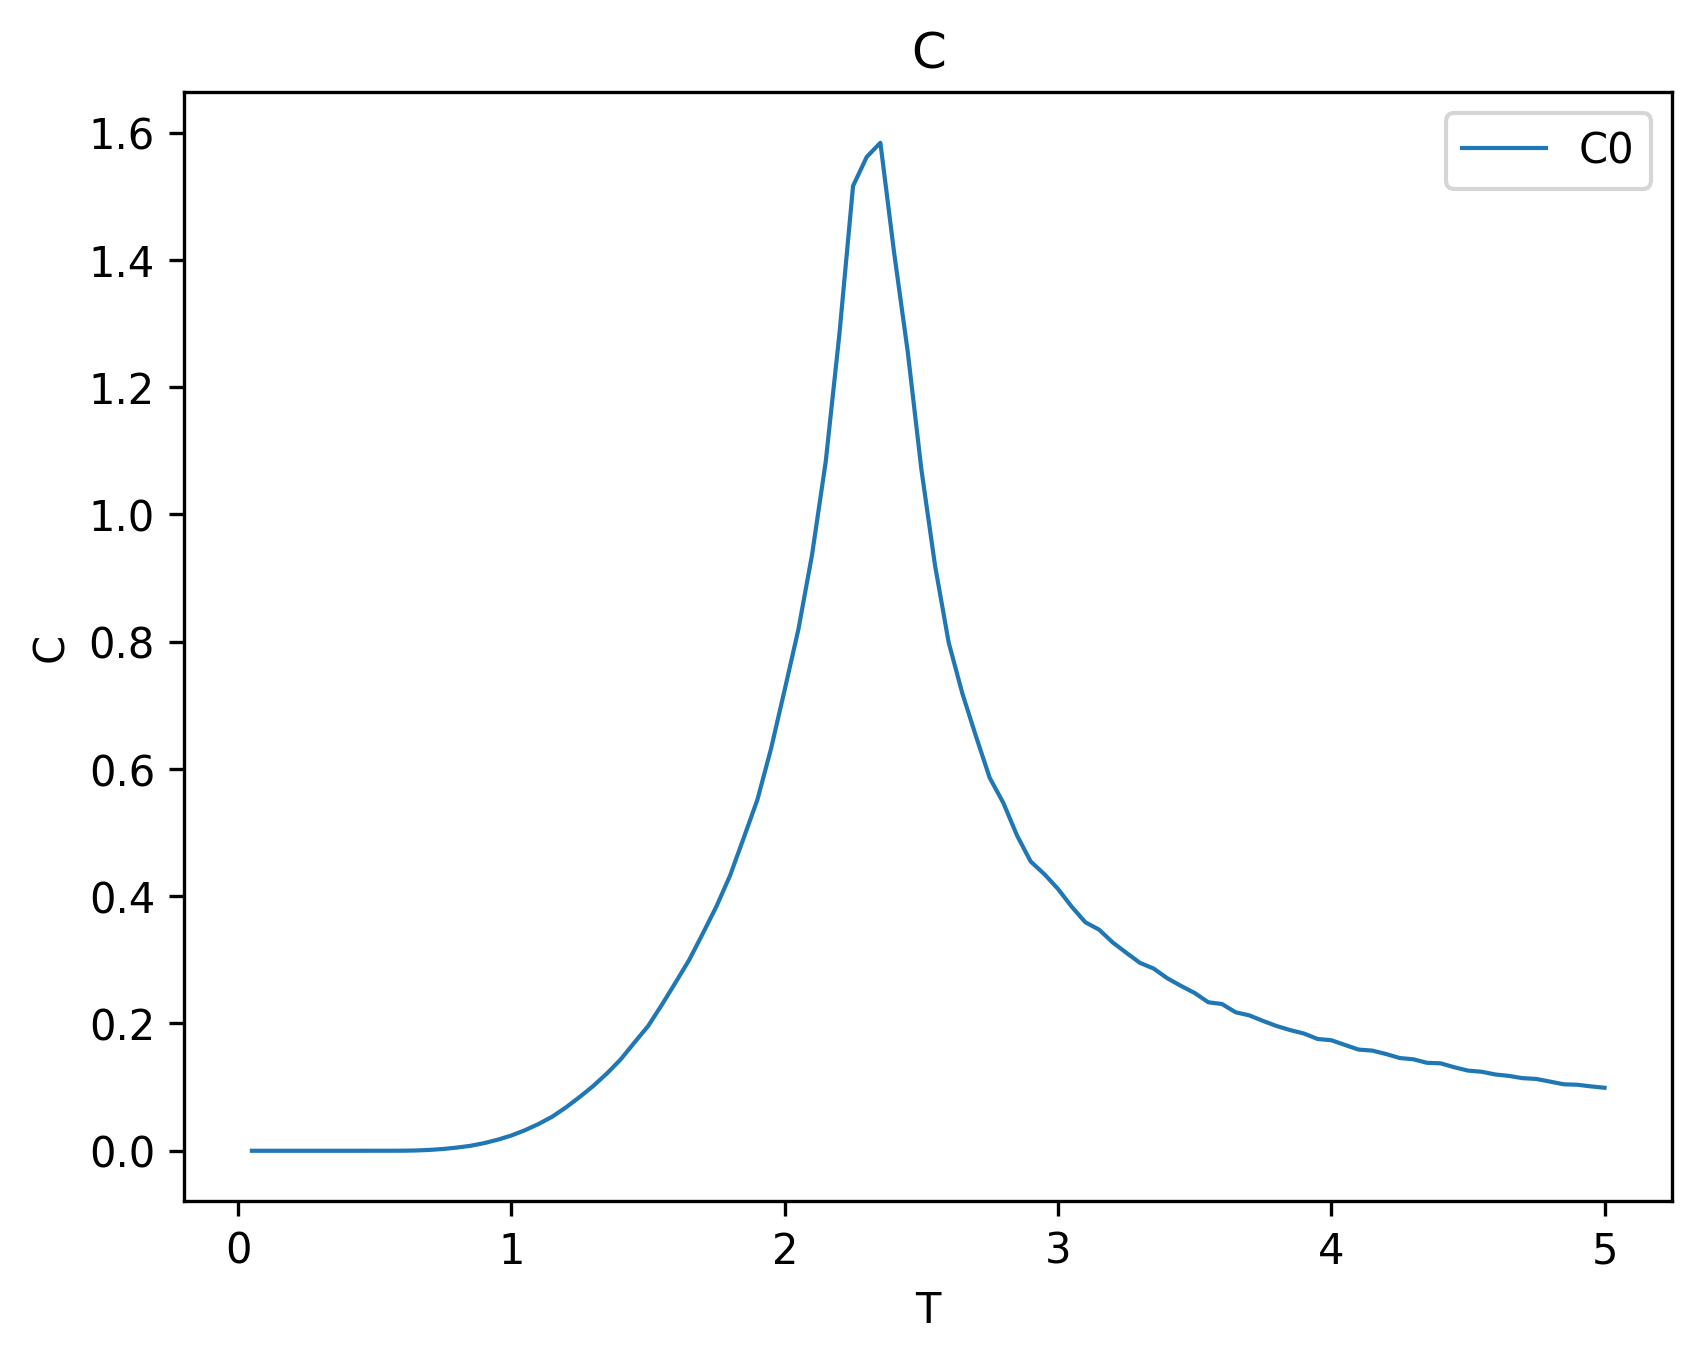
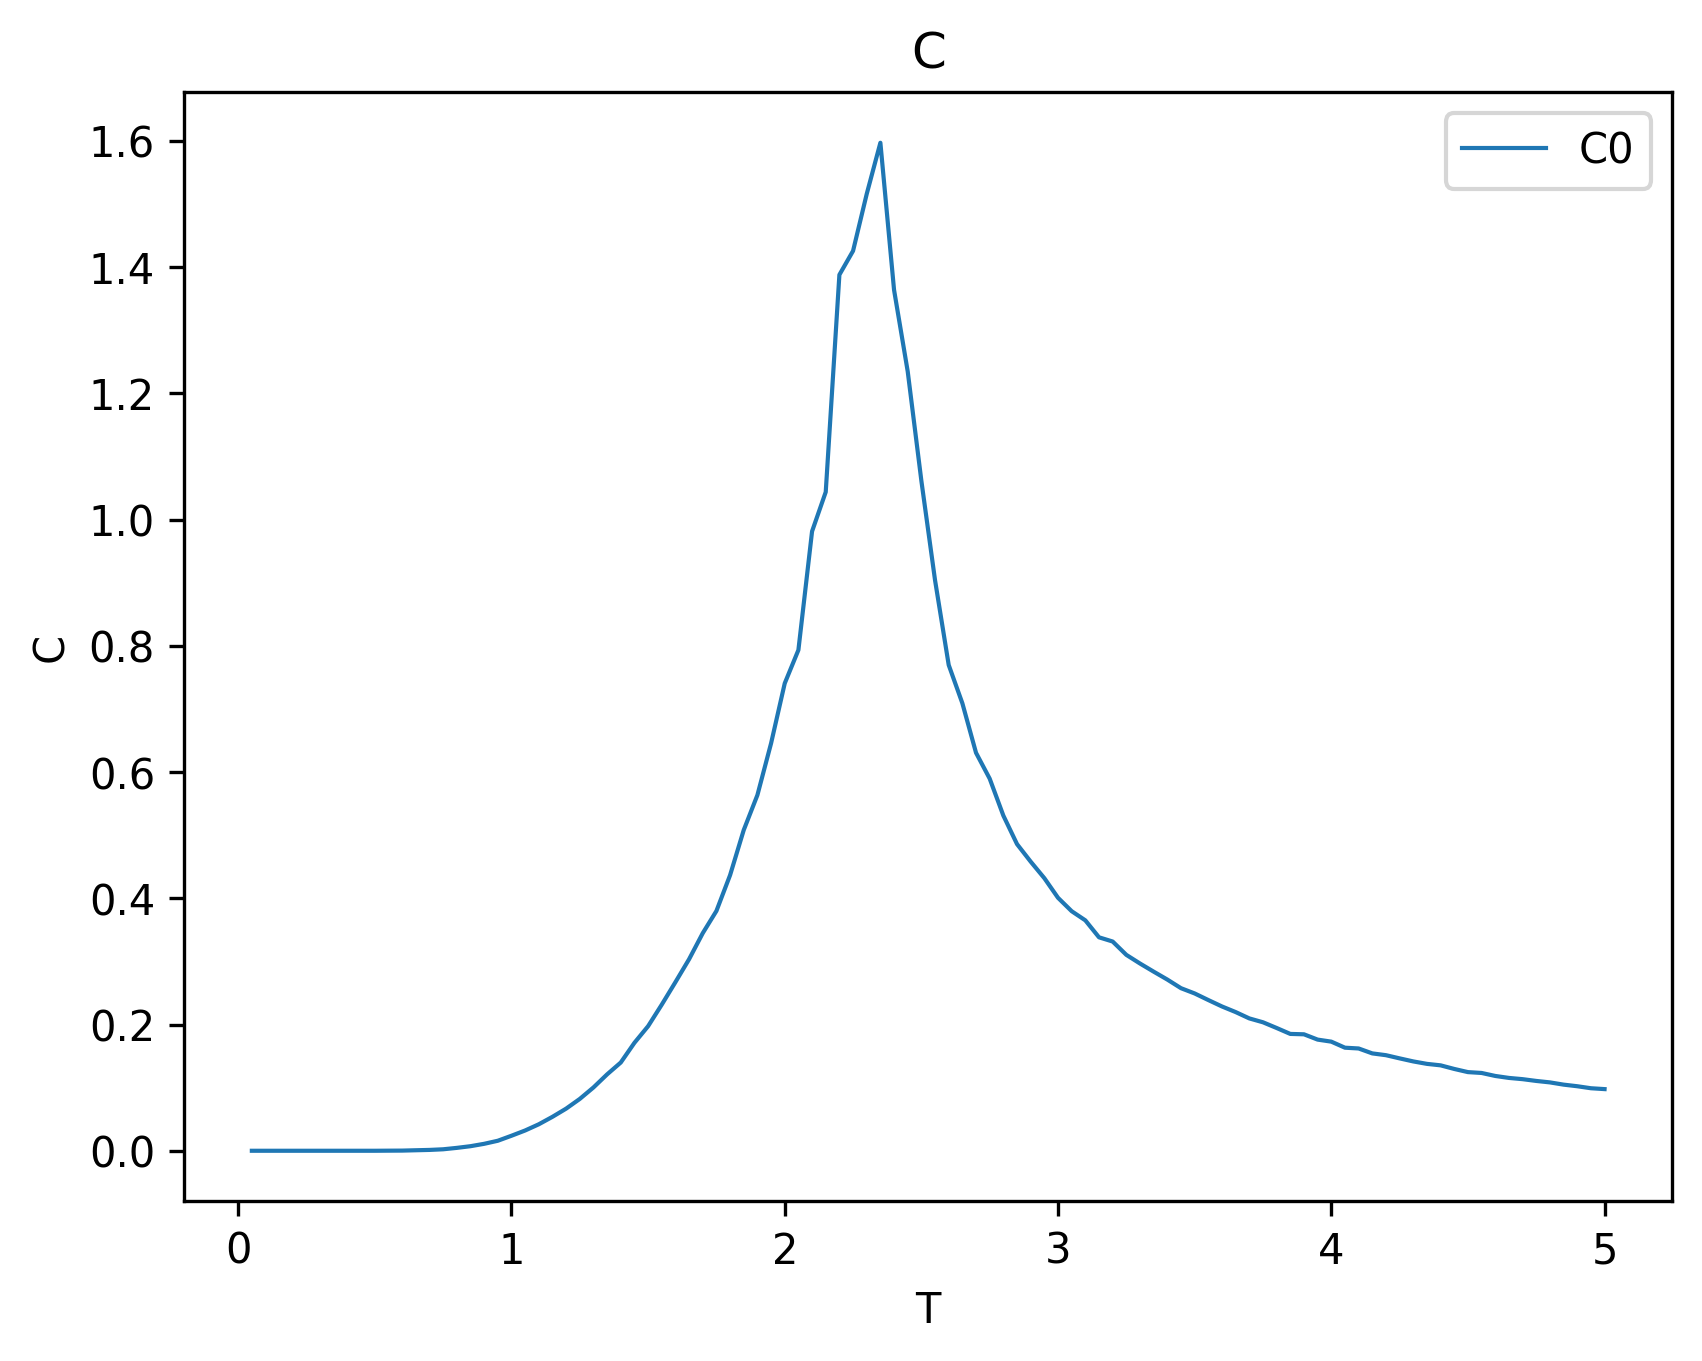
baseSeed fix

diff --git a/ising/ising.go b/ising/ising.go
@@ -5,6 +5,7 @@ import (
 	"math"
 	"math/rand"
 	"sync"
+	"time"
 )
 
 // type Params struct {
@@ -244,7 +245,7 @@ func (s *Simulator) Run(J1, J2, J3, J4, J5, J6, h, T float64, aSteps, mSteps int
 	}
 
 	const seedStep int64 = 1_000_003
-	baseSeed := int64(1)
+	baseSeed := time.Now().UnixNano()
 	weight := 1 / float64(mSteps*copies)
 
 	results := make([]copyResult, copies)
